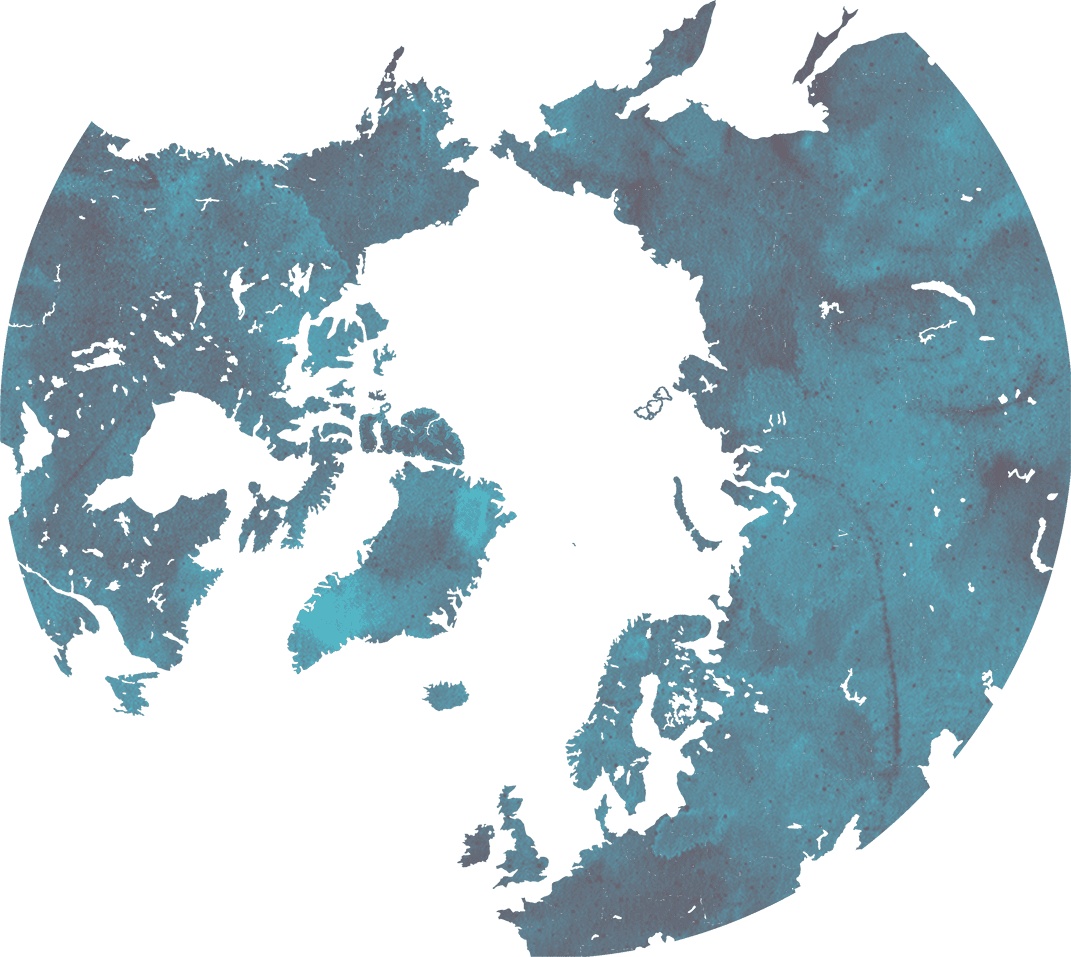
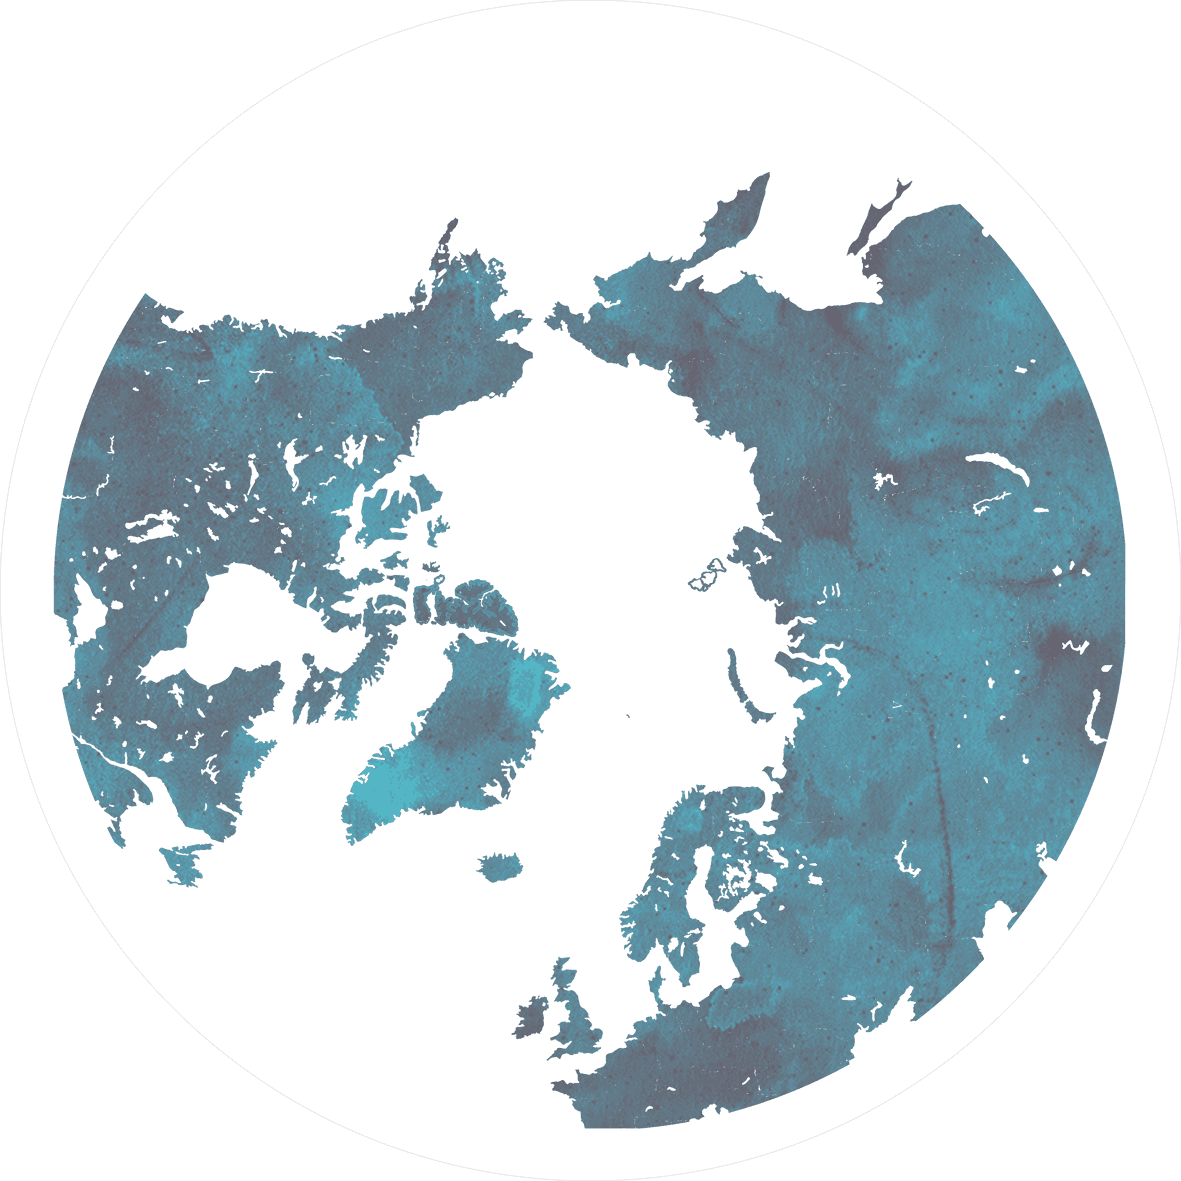
better map layotu

diff --git a/src/components/Layout.js b/src/components/Layout.js
@@ -14,42 +14,52 @@ const data = [
         key: 'ArrowDown',
         path: '/owl-1',
         x: 20, //40, 50
-        y: 50
+        y: 55
     },
     {
         title: 'Route 2',
         key: 'ArrowRight',
         path: '/owl-2',
-        x: 0, // 40, 40 
+        x: 20, // 40, 40 
         y: 30
     },
     {
         title: 'Route 3',
         key: 'ArrowLeft',
         path: '/owl-3',
-        x: 30, // 30, 20
-        y: 20
+        x: 35, // 30, 20
+        y: 30
     },
     {
         title: 'Route 4',
         key: 'ArrowUp',
         path: '/owl-4',
         x: 70,
-        y: 20
+        y: 30
     },
     {
         title: 'Route 5',
         key: 'KeyA',
         path: '/owl-5',
-        x: 90,
-        y: 40
+        x: 85,
+        y: 50
     },
     {
         title: 'Route 6',
         key: 'KeyW',
         path: '/owl-6',
-        x: 80,
+        x: 60,
         y: 70
+    },
+    {
+        title: false,
+        key: 'Space',
+        path: '/',
+    },
+    {
+        title: false,
+        key: 'Escape',
+        path: '/',
     },
 ];
 
@@ -77,7 +87,7 @@ const variants = {
 }
 
 
-const MAP_SIZE = '700px';
+const MAP_SIZE = '900px';
 
 const theme = {
     accentColor: 'tomato',
@@ -95,38 +105,20 @@ const PageContainer = styled(motion.main)`
     bottom: 1em;
     pointer-events: none;
     opacity: 1;
-    ${({ isVisible }) => {
-        console.log({ isVisible });
-        return !isVisible && `
-            pointer-events: none;
-            opacity: 0;
-        `}
-    }
-    z-index: 5;
+    
 
 `
 
 const Container = styled(motion.div)`
 `
 
-const Map = styled(motion.div)`
+
+const MapContainer = styled(motion.div)`
     position: fixed;
     top: 0; right: 0; bottom: 0; left: 0;
-    padding: 2em;
     height: 100vh;
     background: url(${({ bg }) => bg}) no-repeat center;
     background-size: cover;
-
-    .map {
-        display: inline-block;
-        position: absolute;
-        top: 50%;
-        left: 50%;
-        transform: translate(-50%, -50%); 
-        width: 80%;
-        max-width: ${MAP_SIZE};
-    } 
-
     .lines {
         object-fit: cover;
         display: inline-block;
@@ -138,22 +130,32 @@ const Map = styled(motion.div)`
     
     `
 
-const Content = styled.div`
-    position: fixed;
-    z-index: 2;
-    top: 0; right: 0; bottom: 0; left: 0;
+const Map = styled.div`
+    position: absolute;
+    top: 50%; right: 0; bottom: 0; left: 50%;
+    transform: translate(-50%, -50%);
+    width: min(100%, ${MAP_SIZE});
+    padding-bottom: min(100%, ${MAP_SIZE});
+    
+    .map {
+        width: 100%;
+        position: absolute;
+        top: 0; right: 0; bottom: 0; left: 0;
+    } 
 `
+
+
+
 
 const Points = styled.div`
     position: absolute;
-    z-index: 0;
+    z-index: 2;
     top: 50%;
     left: 50%;
     transform: translate(-50%, -50%);
-    height: 100%;
     width: 100%;
     max-width: ${MAP_SIZE};
-    max-height: ${MAP_SIZE};
+    padding-bottom: min(100%, ${MAP_SIZE});
     display: flex;
     flex-direction: column;
     justify-content: space-around;
@@ -169,7 +171,22 @@ const Point = styled.button`
     position: absolute;
     top: ${({ y }) => y}%;
     left: ${({ x }) => x}%;
+    `
+
+const Content = styled.div`
+    position: fixed;
+    z-index: 2;
+    top: 0; right: 0; bottom: 0; left: 0;
+    ${({ isVisible }) => {
+        console.log({ isVisible });
+        return !isVisible && `
+            pointer-events: none;
+            opacity: 0;
+        `}
+    }
+    z-index: 5;
 `
+
 
 const GlobalStyle = createGlobalStyle`
     body{
@@ -191,28 +208,22 @@ const GlobalStyle = createGlobalStyle`
 
 export default function Layout({ children, location }) {
 
-    const [selection, setSelection] = useState(false);
 
 
     useEffect(() => {
         window.addEventListener('keydown', (e) => {
-            const dataForKeyPress = e.code === 'Space' ? false : data.find(d => d.key === e.code)
-            setSelection(dataForKeyPress)
+            console.log(e.code)
+            const dataForKeyPress = data.find(d => d.key === e.code)
+            return dataForKeyPress && navigate(dataForKeyPress.path);
         })
-    }, [])
+    }, []);
 
-    useEffect(() => {
-        selection?.path && navigate(selection.path)
-    }, [selection])
-    useEffect(() => {
-        console.log(location)
-    }, [location])
 
     return (
         <ThemeProvider theme={theme}>
             <GlobalStyle />
             <Container>
-                <Content>
+                <Content isVisible={location.pathname !== '/'}>
                     <AnimatePresence>
                         <PageContainer
                             key={location?.pathname}
@@ -220,37 +231,39 @@ export default function Layout({ children, location }) {
                             initial="initial"
                             animate="enter"
                             exit="exit"
-                            isVisible={location.pathname !== '/'}
+
                         >
                             {children}
                         </PageContainer>
                     </AnimatePresence>
 
-                    <Points>
-                        {data.map(d => {
-                            return (
-                                <Link key={d.title} to={d.path}>
-                                    <Point
-                                        x={d.x}
-                                        y={d.y}
-                                    >
-                                        {d.title}
-                                    </Point>
-                                </Link>
-                            )
-                        })}
-                    </Points>
                 </Content>
 
 
-                <Map bg={bg}>
+                <MapContainer bg={bg}>
                     <img
                         className="lines"
                         src={lines}
                         alt=""
                     />
-                    <MapImage />
-                </Map>
+                    <Map>
+                        <Points>
+                            {data.map(d => {
+                                return d.title && (
+                                    <Link key={d.title} to={d.path}>
+                                        <Point
+                                            x={d.x}
+                                            y={d.y}
+                                        >
+                                            {d.title}
+                                        </Point>
+                                    </Link>
+                                )
+                            })}
+                        </Points>
+                        <MapImage />
+                    </Map>
+                </MapContainer>
             </Container >
         </ThemeProvider>
     )
@@ -263,7 +276,7 @@ const MapImage = () => {
             file(relativePath: {eq: "gnomonic-map.png"}) {
                 childImageSharp {
                     gatsbyImageData(
-                        width: 1200
+                        width: 1700
                         placeholder: BLURRED
                         formats: [AUTO, WEBP, AVIF]
                     )
